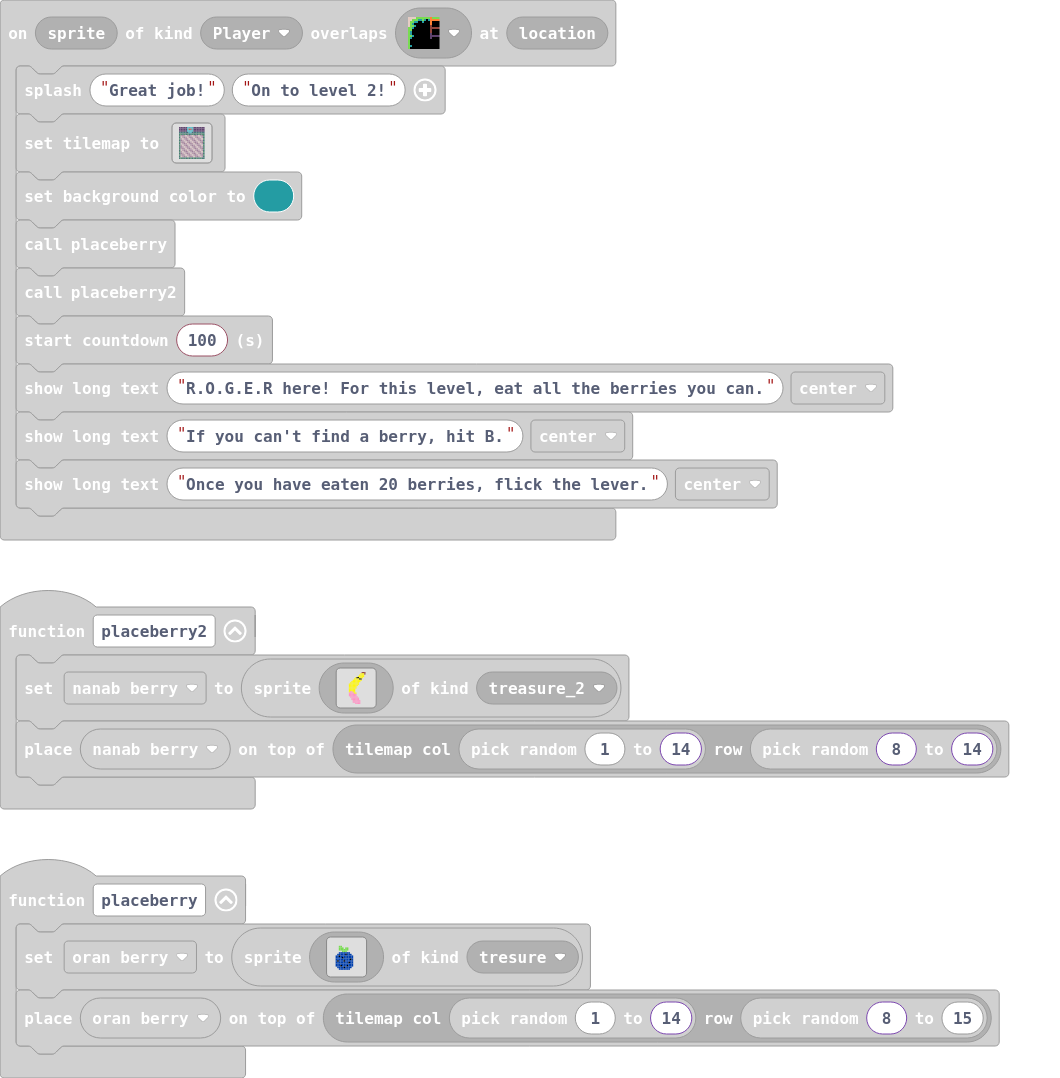
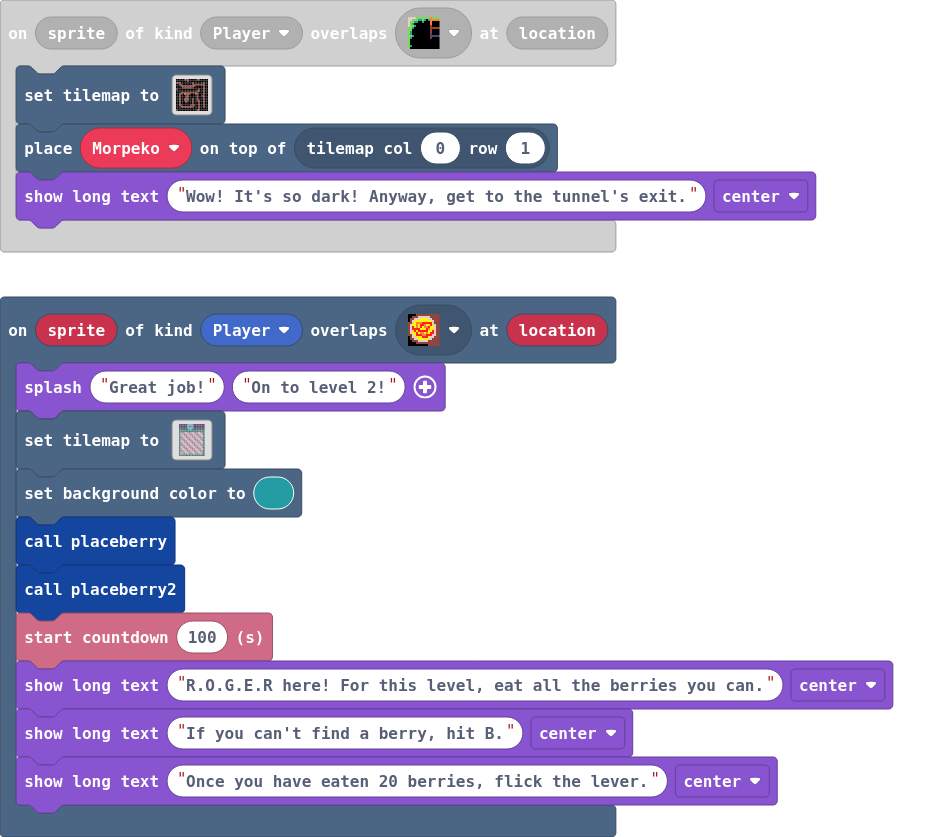
tunnel

diff --git a/tilemap.g.ts b/tilemap.g.ts
@@ -12,28 +12,15 @@ namespace myTiles {
     export const tile8 = image.ofBuffer(hex``);
     //% fixedInstance jres blockIdentity=images._tile
     export const tile9 = image.ofBuffer(hex``);
+    //% fixedInstance jres blockIdentity=images._tile
+    export const tile4 = image.ofBuffer(hex``);
+    //% fixedInstance jres blockIdentity=images._tile
+    export const tile3 = image.ofBuffer(hex``);
+    //% fixedInstance jres blockIdentity=images._tile
+    export const tile6 = image.ofBuffer(hex``);
 
     helpers._registerFactory("tilemap", function(name: string) {
         switch(helpers.stringTrim(name)) {
-            case "level3":
-            case "level3":return tiles.createTilemap(hex`1000100000000000000000000000000000000000000000000000000000000000000000000000000000000000000000000000000000000000000000000000000000000000000000000000000000000000000000000000000000000000000000000000000000000000000000000000000000000000000000000000000000000000000000000000000000000000000000000000000000000000000000000000000000000000000000000000000000000000000000000000000000000000000000000000000000000000000000000000000000000000000000000000000000000000000000000000000000000000000000000000000000000000000000000000000000000000`, img`
-. . . . . . . . . . . . . . . . 
-. . . . . . . . . . . . . . . . 
-. . . . . . . . . . . . . . . . 
-. . . . . . . . . . . . . . . . 
-. . . . . . . . . . . . . . . . 
-. . . . . . . . . . . . . . . . 
-. . . . . . . . . . . . . . . . 
-. . . . . . . . . . . . . . . . 
-. . . . . . . . . . . . . . . . 
-. . . . . . . . . . . . . . . . 
-. . . . . . . . . . . . . . . . 
-. . . . . . . . . . . . . . . . 
-. . . . . . . . . . . . . . . . 
-. . . . . . . . . . . . . . . . 
-. . . . . . . . . . . . . . . . 
-. . . . . . . . . . . . . . . . 
-`, [myTiles.transparency16], TileScale.Sixteen);
             case "level4":
             case "level4":return tiles.createTilemap(hex`1000100000000000000000000000000000000000000000000000000000000000000000000000000000000000000000000000000000000000000000000000000000000000000000000000000000000000000000000000000000000000000000000000000000000000000000000000000000000000000000000000000000000000000000000000000000000000000000000000000000000000000000000000000000000000000000000000000000000000000000000000000000000000000000000000000000000000000000000000000000000000000000000000000000000000000000000000000000000000000000000000000000000000000000000000000000000000`, img`
 . . . . . . . . . . . . . . . . 
@@ -95,6 +82,48 @@ namespace myTiles {
 2..............2
 2222222222222222
 `, [myTiles.transparency16,sprites.dungeon.greenOuterNorth0,sprites.dungeon.greenOuterNorthWest,sprites.dungeon.greenOuterNorthEast,sprites.dungeon.greenOuterSouthWest,sprites.dungeon.greenOuterSouthEast,sprites.dungeon.greenOuterWest0,sprites.dungeon.greenOuterSouth1,sprites.dungeon.greenOuterEast0,sprites.dungeon.greenSwitchUp,sprites.dungeon.greenOuterWest2,sprites.dungeon.greenOuterNorth2,sprites.dungeon.greenOuterEast2,sprites.dungeon.greenOuterSouth2,sprites.dungeon.floorMixed,sprites.dungeon.floorDark0,sprites.dungeon.floorLight0,sprites.dungeon.darkGroundNorthWest0,sprites.dungeon.darkGroundNorthEast0,sprites.dungeon.darkGroundWest,sprites.dungeon.darkGroundEast,sprites.dungeon.darkGroundNorth,sprites.dungeon.darkGroundCenter,sprites.dungeon.chestClosed,sprites.dungeon.collectibleInsignia,sprites.dungeon.greenInnerNorthEast,sprites.dungeon.greenInnerNorthWest], TileScale.Sixteen);
+            case "level5":
+            case "level5":return tiles.createTilemap(hex`1000100000000000000000000000000000000000000000000000000000000000000000000000000000000000000000000000000000000000000000000000000000000000000000000000000000000000000000000000000000000000000000000000000000000000000000000000000000000000000000000000000000000000000000000000000000000000000000000000000000000000000000000000000000000000000000000000000000000000000000000000000000000000000000000000000000000000000000000000000000000000000000000000000000000000000000000000000000000000000000000000000000000000000000000000000000000000`, img`
+. . . . . . . . . . . . . . . . 
+. . . . . . . . . . . . . . . . 
+. . . . . . . . . . . . . . . . 
+. . . . . . . . . . . . . . . . 
+. . . . . . . . . . . . . . . . 
+. . . . . . . . . . . . . . . . 
+. . . . . . . . . . . . . . . . 
+. . . . . . . . . . . . . . . . 
+. . . . . . . . . . . . . . . . 
+. . . . . . . . . . . . . . . . 
+. . . . . . . . . . . . . . . . 
+. . . . . . . . . . . . . . . . 
+. . . . . . . . . . . . . . . . 
+. . . . . . . . . . . . . . . . 
+. . . . . . . . . . . . . . . . 
+. . . . . . . . . . . . . . . . 
+`, [myTiles.transparency16], TileScale.Sixteen);
+            case "level3":
+            case "level3":return tiles.createTilemap(hex`1400140002020202020101010202020202010102020202020202020202020201020202020202020202020202010101020202020202020102020202020201020202020101020202020202010101010101010102020202020101010101010101010202020202010202020202020101010101010102020202020201020201020202020202020202020202020102020102020202020202020202020202020201010202010202020202010101010101010101010102020201020202020101020301010102020201010202020102020202010202020101020202020201020201010202020201020202010102020202020102020201020202020102020101010202010202010202020102020202010202010101020201020201010202010202020201020202010202020102020201020201020202020102020202020202010202020102020102020202010102020202020101010202010202010202020202010101010101010102020201020201020202020202020202020202020202020102020202020102020202020202020202020201010202020202`, img`
+.....222.....22.....
+.......2............
+222.......2......2..
+..22......22222222..
+...222222222.....2..
+....2222222......2..
+2.............2..2..
+.............22..2..
+...22222222222...2..
+..22..222...22...2..
+..2...22.....2..22..
+..2...22.....2...2..
+..2..222..2..2...2..
+..2..222..2..22..2..
+..2...2...2...2..2..
+..2.......2...2..2..
+..22.....222..2..2..
+...22222222...2..2..
+..............2.....
+2............22.....
+`, [myTiles.transparency16,myTiles.tile3,myTiles.tile4,myTiles.tile6], TileScale.Sixteen);
         }
         return null;
     })
@@ -112,6 +141,12 @@ namespace myTiles {
             case "tile8":return tile8;
             case "myTile7":
             case "tile9":return tile9;
+            case "myTile2":
+            case "tile4":return tile4;
+            case "myTile1":
+            case "tile3":return tile3;
+            case "myTile4":
+            case "tile6":return tile6;
         }
         return null;
     })

diff --git a/main.ts b/main.ts
@@ -3,15 +3,9 @@ namespace SpriteKind {
     export const treasure_2 = SpriteKind.create()
 }
 scene.onOverlapTile(SpriteKind.Player, assets.tile`myTile0`, function (sprite, location) {
-    game.splash("Great job!", "On to level 2!")
-    tiles.setTilemap(tilemap`level2`)
-    scene.setBackgroundColor(6)
-    placeberry()
-    placeberry2()
-    info.startCountdown(100)
-    game.showLongText("R.O.G.E.R here! For this level, eat all the berries you can.", DialogLayout.Center)
-    game.showLongText("If you can't find a berry, hit B.", DialogLayout.Center)
-    game.showLongText("Once you have eaten 20 berries, flick the lever.", DialogLayout.Center)
+    tiles.setTilemap(tilemap`level3`)
+    tiles.placeOnTile(Morpeko, tiles.getTileLocation(0, 1))
+    game.showLongText("Wow! It's so dark! Anyway, get to the tunnel's exit.", DialogLayout.Center)
 })
 controller.B.onEvent(ControllerButtonEvent.Pressed, function () {
     oran_berry.destroy()
@@ -33,6 +27,17 @@ sprites.onOverlap(SpriteKind.Player, SpriteKind.tresure, function (sprite, other
     oran_berry.destroy(effects.disintegrate, 500)
     info.changeScoreBy(1)
     placeberry()
+})
+scene.onOverlapTile(SpriteKind.Player, assets.tile`myTile4`, function (sprite, location) {
+    game.splash("Great job!", "On to level 2!")
+    tiles.setTilemap(tilemap`level2`)
+    scene.setBackgroundColor(6)
+    placeberry()
+    placeberry2()
+    info.startCountdown(100)
+    game.showLongText("R.O.G.E.R here! For this level, eat all the berries you can.", DialogLayout.Center)
+    game.showLongText("If you can't find a berry, hit B.", DialogLayout.Center)
+    game.showLongText("Once you have eaten 20 berries, flick the lever.", DialogLayout.Center)
 })
 function placeberry2 () {
     nanab_berry = sprites.create(img`
@@ -103,8 +108,9 @@ sprites.onOverlap(SpriteKind.Player, SpriteKind.treasure_2, function (sprite, ot
 })
 let nanab_berry: Sprite = null
 let oran_berry: Sprite = null
+let Morpeko: Sprite = null
 scene.setBackgroundColor(7)
-let Morpeko = sprites.create(assets.image`Morpeko`, SpriteKind.Player)
+Morpeko = sprites.create(assets.image`Morpeko`, SpriteKind.Player)
 Morpeko.setPosition(10, 15)
 controller.moveSprite(Morpeko, 85, 85)
 scene.cameraFollowSprite(Morpeko)
